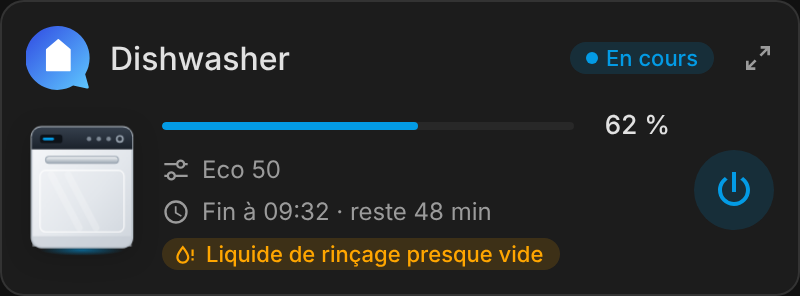
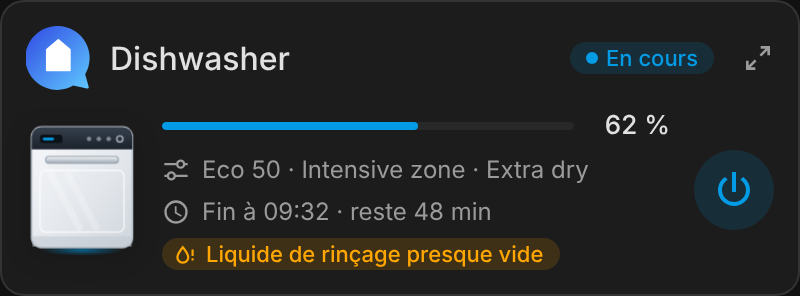
List the options in use while a program runs (1.6.2) (#16)
While a program runs, the options in use (selects with their value,
switches turned on) are shown read-only in an Options section; the mini
card appends them after the program name.

---
_Generated by [Claude
Code](https://claude.ai/code/session_01UPucBWYpSHML4ZNsLcxn7A)_

Changed region(s): [[0.375, 0.5473, 0.75, 0.6081]]

diff --git a/src/home-connect-card.js b/src/home-connect-card.js
@@ -638,6 +638,24 @@ class HomeConnectBaseCard extends HTMLElement {
       }
     }
 
+    // While a program runs the options can't be changed: the ones in use are listed, read-only.
+    var activeOpts = [];
+    if (c.show_options && online && running) {
+      ent.option_selects.filter((id) => this._avail(id)).forEach((id) => {
+        activeOpts.push({ label: this._entityLabel(id, deviceName), value: this._fmt(id) });
+      });
+      ent.option_switches.filter((id) => this._val(id) === 'on').forEach((id) => {
+        activeOpts.push({ label: this._entityLabel(id, deviceName) });
+      });
+      if (activeOpts.length) {
+        optionsHtml = '<div class="section"><div class="section-title">' + this._t('options') + '</div><div class="toggles">' +
+          activeOpts.map((o) => o.value
+            ? `<span class="opt" title="${hcEsc(o.label)}"><span class="k">${hcEsc(o.label)}</span>${hcEsc(o.value)}</span>`
+            : `<span class="opt on"><ha-icon icon="mdi:check-circle"></ha-icon>${hcEsc(o.label)}</span>`).join('') +
+          '</div></div>';
+      }
+    }
+
     // Controls.
     var controls = '';
     if (c.show_controls && online && powerOn) {
@@ -696,7 +714,7 @@ class HomeConnectBaseCard extends HTMLElement {
 
     if (this._compact()) {
       this.shadowRoot.innerHTML = this._miniHtml({ c, ent, name, color, state, statusText, running, online, powerOn, progress,
-        finish, progLabel, chips: chips.filter((x) => x.indexOf('chip warn') >= 0 || !online), art, logo, powerBtn });
+        finish, progLabel, activeOpts, chips: chips.filter((x) => x.indexOf('chip warn') >= 0 || !online), art, logo, powerBtn });
       return;
     }
 
@@ -808,6 +826,11 @@ class HomeConnectBaseCard extends HTMLElement {
         ' background: var(--secondary-background-color, rgba(128,128,128,0.12)); color: var(--secondary-text-color); }' +
       '.toggle ha-icon { --mdc-icon-size: 16px; }' +
       '.toggle:disabled { opacity: 0.45; }' +
+      '.opt { display: inline-flex; align-items: center; gap: 4px; font-size: 11px; font-weight: 500; padding: 3px 8px; border-radius: 12px;' +
+        ' background: var(--secondary-background-color, rgba(128,128,128,0.12)); color: var(--primary-text-color); }' +
+      '.opt .k { color: var(--secondary-text-color); font-weight: 400; }' +
+      '.opt ha-icon { --mdc-icon-size: 14px; }' +
+      '.opt.on { padding-left: 5px; background: color-mix(in srgb, var(--primary-color, #03a9f4) 15%, transparent); color: var(--primary-color, #03a9f4); }' +
       '.reload { display: flex; align-items: center; justify-content: space-between; gap: 8px; flex-wrap: wrap; font-size: 12px; color: var(--secondary-text-color); }' +
       '.link { display: inline-flex; align-items: center; gap: 4px; font-size: 12px; font-weight: 500; padding: 4px 8px; border-radius: 10px; background: none; color: var(--primary-color, #03a9f4); }' +
       '.link ha-icon { --mdc-icon-size: 16px; }' +
@@ -1064,7 +1087,11 @@ var hcMini = (Base) => class extends Base {
       var pct = m.state === 'finished' ? 100 : (m.progress == null ? 0 : m.progress);
       bar = '<div class="mbar"><div class="bar"><div class="fill" style="width:' + pct + '%"></div></div><span class="v">' + Math.round(pct) + ' %</span></div>';
     }
-    if (m.progLabel && m.online && m.powerOn) lines.push(`<div class="line"><ha-icon icon="mdi:tune-variant"></ha-icon><span>${hcEsc(m.progLabel)}</span></div>`);
+    if (m.progLabel && m.online && m.powerOn) {
+      // Running: the options in use follow the program name.
+      var prog = [m.progLabel].concat(m.activeOpts.map((o) => o.value || o.label)).join(' · ');
+      lines.push(`<div class="line"><ha-icon icon="mdi:tune-variant"></ha-icon><span title="${hcEsc(prog)}">${hcEsc(prog)}</span></div>`);
+    }
     if (m.running && m.finish) {
       var mins = Math.max(0, Math.round((m.finish.getTime() - Date.now()) / 60000));
       var h = Math.floor(mins / 60), mm = mins % 60;

diff --git a/CHANGELOG.md b/CHANGELOG.md
@@ -1,5 +1,10 @@
 # Changelog
 
+## 1.6.2
+
+### Changes
+- While a program runs, the options in use are listed read-only (temperature, spin speed… and the switched-on extras); the mini card adds them after the program name.
+
 ## 1.6.1
 
 ### Fixes
